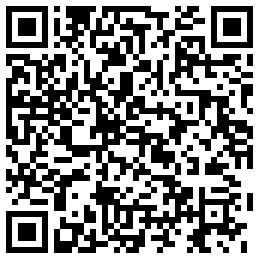
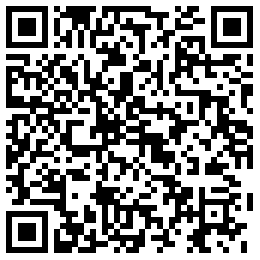
updata develop

diff --git a/src/pages/download/index.js b/src/pages/download/index.js
@@ -49,7 +49,7 @@ function Download() {
                     className={styles.downIcon}
                     onClick={() =>
                       download(
-                        'https://yingliboke.oss-cn-shenzhen.aliyuncs.com/android/www%E8%8B%B1%E8%8D%94%E6%92%AD%E8%AF%BE2.3.1-04-21_0903_231_jiagu_sign.apk',
+                        'https://yingliboke.oss-cn-shenzhen.aliyuncs.com/android/www%E8%8B%B1%E8%8D%94%E6%92%AD%E8%AF%BE2.3.4-05-21_1853_234_jiagu_sign.apk'
                       )
                     }>
                     <img
@@ -60,7 +60,7 @@ function Download() {
                   <small
                     onClick={() =>
                       download(
-                        'https://yingliboke.oss-cn-shenzhen.aliyuncs.com/android/www%E8%8B%B1%E8%8D%94%E6%92%AD%E8%AF%BE2.3.1-04-21_0903_231_jiagu_sign.apk',
+                        'https://yingliboke.oss-cn-shenzhen.aliyuncs.com/android/www%E8%8B%B1%E8%8D%94%E6%92%AD%E8%AF%BE2.3.4-05-21_1853_234_jiagu_sign.apk'
                       )
                     }>
                     点击或扫描二维码下载
